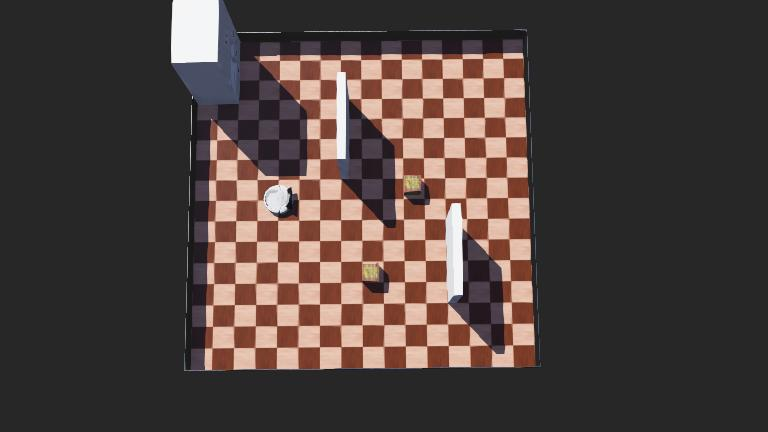
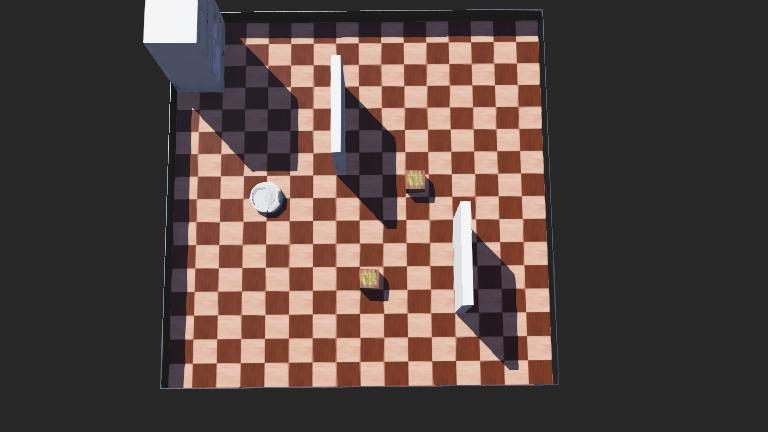
Add IMU to our Create robot (MPU-9250)

Changed region(s): [[0.1875, 0.0, 0.7188, 0.9028]]

diff --git a/src/my_create_map_webots/my_create_map_webots/my_create_driver_realsense.py b/src/my_create_map_webots/my_create_map_webots/my_create_driver_realsense.py
@@ -16,7 +16,7 @@ from rclpy.qos import QoSProfile, QoSReliabilityPolicy, QoSHistoryPolicy
 from rclpy.qos import qos_profile_sensor_data
 from geometry_msgs.msg import Twist
 from rosgraph_msgs.msg import Clock
-from sensor_msgs.msg import Image, CameraInfo
+from sensor_msgs.msg import Image, CameraInfo, Imu
 import cv2
 from cv_bridge import CvBridge, CvBridgeError
 
@@ -67,8 +67,12 @@ class MyCreateDriverRealsense:
         self.camHeight = self.camera.getHeight()
         self.camFov = self.camera.getFov()
 
-        self.inertial_unit = self._robot.getDevice("inertial unit")
-        self.inertial_unit.enable(self._TIMESTEP)
+        self.imu_accelerometer = self._robot.getDevice("MPU-9250 accelerometer")
+        self.imu_accelerometer.enable(self._TIMESTEP)
+        self.imu_gyro = self._robot.getDevice("MPU-9250 gyro")
+        self.imu_gyro.enable(self._TIMESTEP)
+        self.imu_compass = self._robot.getDevice("MPU-9250 compass")
+        self.imu_compass.enable(self._TIMESTEP)
 
         self.__target_twist = Twist()
 
@@ -86,6 +90,7 @@ class MyCreateDriverRealsense:
         self.camInfoPub = self.node.create_publisher(CameraInfo, "/camera/camera_info", reliable_qos_profile)
         self.camDepthPub = self.node.create_publisher(Image, "/camera/depth/image_raw", reliable_qos_profile)
         self.depthCamInfoPub = self.node.create_publisher(CameraInfo, "/camera/depth/camera_info", reliable_qos_profile)
+        self.imu_pub = self.node.create_publisher(Imu, "/imu/data", reliable_qos_profile)
 
         # Subscriber
         self.node.create_subscription(Twist, 'cmd_vel', self.__cmd_vel_callback, 1)
@@ -208,6 +213,47 @@ class MyCreateDriverRealsense:
 
         # --- Publish ---
         self.depthCamInfoPub.publish(depthCamInfoMsg)
+
+        # === Publish IMU data ===
+        imu_msg = Imu()
+        imu_msg.header.stamp = now
+        imu_msg.header.frame_id = "imu_link"
+
+        # --- 獲取線性加速度 ---
+        linear_accel = self.imu_accelerometer.getValues()
+        imu_msg.linear_acceleration.x = linear_accel[0]
+        imu_msg.linear_acceleration.y = linear_accel[1]
+        imu_msg.linear_acceleration.z = linear_accel[2]
+
+        # --- 獲取角速度 ---
+        angular_vel = self.imu_gyro.getValues()
+        imu_msg.angular_velocity.x = angular_vel[0]
+        imu_msg.angular_velocity.y = angular_vel[1]
+        imu_msg.angular_velocity.z = angular_vel[2]
+
+        # --- 處理方向 ---
+        # 由於我們沒有直接的方向輸出，我們需要告訴下游節點「方向數據是無效的」。
+        # 標準的做法是將四元數設為 (0,0,0,1)，並將協方差矩陣的第一個元素設為 -1。
+        imu_msg.orientation.x = 0.0
+        imu_msg.orientation.y = 0.0
+        imu_msg.orientation.z = 0.0
+        imu_msg.orientation.w = 1.0
+        # [關鍵] orientation_covariance[0] = -1 代表「請忽略方向數據」
+        imu_msg.orientation_covariance[0] = -1.0 
+
+        # --- 填充其他協方差 ---
+        # 我們提供一個很小的、非零的對角協方差，代表角速度和加速度數據是「可信的」。
+        small_covariance = 0.01 
+        imu_msg.angular_velocity_covariance[0] = small_covariance
+        imu_msg.angular_velocity_covariance[4] = small_covariance
+        imu_msg.angular_velocity_covariance[8] = small_covariance
+
+        imu_msg.linear_acceleration_covariance[0] = small_covariance
+        imu_msg.linear_acceleration_covariance[4] = small_covariance
+        imu_msg.linear_acceleration_covariance[8] = small_covariance
+
+        # --- Publish ---
+        self.imu_pub.publish(imu_msg)
 
         rclpy.spin_once(self.node, timeout_sec=0)
 

diff --git a/src/my_create_map_webots/launch/mycreate_launch_realsense.py b/src/my_create_map_webots/launch/mycreate_launch_realsense.py
@@ -59,12 +59,18 @@ def generate_launch_description():
             'publish_tf': True,
             'approx_sync': True,
             'approx_sync_max_interval': 0.05,
+            "Reg/Force3DoF": "true",
             "Vis/MinInliers": "12",
+            'wait_imu_to_init': False, # 因為我們沒有有效的初始方向，所以關閉這個
+
+            # [重要] 告訴 RTAB-Map IMU 的方向數據是無效的，但其他數據是有效的
+            'Odom/GuessMotion': 'true',
         }],
         remappings=[
             ('rgb/image', '/camera/image_raw'),
             ('rgb/camera_info', '/camera/camera_info'),
             ('depth/image', '/camera/depth/image_raw'),
+            ('imu', '/imu/data'),
         ]
     )
 
@@ -98,7 +104,7 @@ def generate_launch_description():
 # <param name="range_min"       type="double" value="0.45"/> <!--default:0.45m. Ranges less than this are considered -Inf. -->
 # <param name="range_max"       type="double" value="10.0"/> <!--default: 10m. Ranges less than this are considered +Inf. -->
 # <param name="output_frame_id" type="str"    value="camera_depth_frame"/> <!--default: camera_depth_frame. Frame id of the laser scan. -->
-            "range_max": 3.5,
+            "range_max": 6.0,
             "range_min": 0.01,
             "scan_height": 10,
             "use_sim_time": True,
@@ -144,6 +150,7 @@ def generate_launch_description():
             ('rgb/camera_info', '/camera/camera_info'),
             ('depth/image', '/camera/depth/image_raw'),
             ('scan', '/d2l/scan'),
+            ('imu', '/imu/data'),
             # ('rgb/image', '/camera/image_rect_color'),
             # ('rgb/camera_info', '/left/camera_info'),
             # # ('depth/image', '/pointcloud2depthImage/image'),
